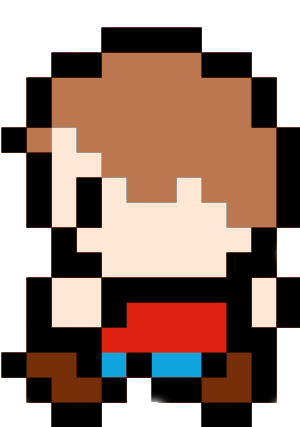
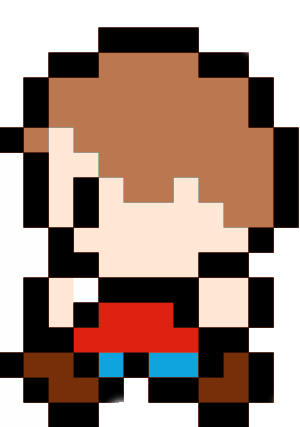
Changed player's size

diff --git a/core/src/com/mygdx/game/Player.java b/core/src/com/mygdx/game/Player.java
@@ -235,31 +235,31 @@ public class Player {
             //Determine which direction the player is standing
             //If the player is facing left
             if(directionX == 1){
-                batch.draw(standL, x, y);
+                batch.draw(standL, x, y, 1000, 1000);
             //If the player is facing Right
             }else if(directionX == 2){
-                batch.draw(standR, x, y);
+                batch.draw(standR, x, y, 1000, 1000);
             //If the player is facing up
             }else if(directionY == 2){
-                batch.draw(standU, x, y);
+                batch.draw(standU, x, y, 1000, 1000);
             //If the player is facing down
             }else{
-                batch.draw(standD, x, y);
+                batch.draw(standD, x, y, 1000, 1000);
             }
         //If the player is moving, one of the four animations play, even if
         //they're moving diagonally
         //If the player is moving to the right
         }else if(this.dx > 0){
-            batch.draw(runR.getKeyFrame(elapsed, true), x, y);
+            batch.draw(runR.getKeyFrame(elapsed, true), x, y, 1000, 1000);
         //If the player is moving to the left
         }else if(this.dx < 0){
-            batch.draw(runL.getKeyFrame(elapsed, true), x, y);
+            batch.draw(runL.getKeyFrame(elapsed, true), x, y, 1000, 1000);
         //If the player is moving upwards
         }else if(this.dy < 0){
-            batch.draw(runU.getKeyFrame(elapsed, true), x, y);
+            batch.draw(runU.getKeyFrame(elapsed, true), x, y, 1000, 1000);
         //If the player is moving downwards
         }else if(this.dy > 0){
-            batch.draw(runD.getKeyFrame(elapsed, true), x, y);
+            batch.draw(runD.getKeyFrame(elapsed, true), x, y, 10000, 10000);
         }
     }
     

diff --git a/desktop/src/com/mygdx/game/desktop/DesktopLauncher.java b/desktop/src/com/mygdx/game/desktop/DesktopLauncher.java
@@ -10,7 +10,7 @@ public class DesktopLauncher {
 	public static void main (String[] arg) {
             
               //Texture Packer not important anymore
-              TexturePacker.process("Raw", "Packed", "Player");
+              //TexturePacker.process("Raw", "Packed", "Player");
              
 		LwjglApplicationConfiguration config = new LwjglApplicationConfiguration();
 		new LwjglApplication(new PuzzleGame(), config);
